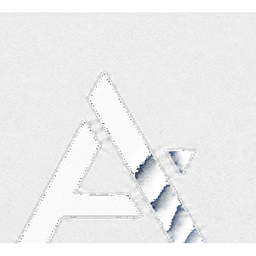
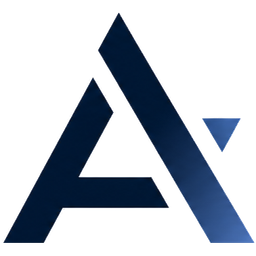
Deploy latest changes

diff --git a/src/components/MidPageCta.jsx b/src/components/MidPageCta.jsx
@@ -13,7 +13,12 @@ export default function MidPageCta() {
         <div className="lg:col-span-3">
           <div className="rounded-3xl bg-black/30 p-6 ring-1 ring-white/10 backdrop-blur shadow-soft">
             <div className="flex items-center gap-3">
-              <img src={axiomStrategyLogo} alt="Axiom Strategy" className="h-9 w-auto opacity-95 sm:h-10" />
+              <img
+                src={axiomStrategyLogo}
+                alt="Axiom Strategy"
+                className="h-9 w-auto opacity-100 sm:h-10"
+                style={{ filter: 'brightness(1.12) contrast(1.06) saturate(1.02)' }}
+              />
               <div>
                 <div className="text-sm font-semibold tracking-tight text-white/90">Axiom Strategy</div>
                 <div className="text-xs text-white/55">Next move</div>

diff --git a/src/components/Footer.jsx b/src/components/Footer.jsx
@@ -7,7 +7,12 @@ export default function Footer() {
       <div className="mx-auto max-w-6xl px-5 py-12 sm:px-8">
         <div className="flex flex-col gap-6 sm:flex-row sm:items-center sm:justify-between">
           <div className="flex items-center gap-3">
-            <img src={axiomStrategyLogo} alt="Axiom Strategy" className="h-8 w-auto opacity-95 sm:h-9" />
+            <img
+              src={axiomStrategyLogo}
+              alt="Axiom Strategy"
+              className="h-8 w-auto opacity-100 sm:h-9"
+              style={{ filter: 'brightness(1.12) contrast(1.06) saturate(1.02)' }}
+            />
             <div className="text-sm font-semibold tracking-tight text-white/90">
               Axiom Strategy
             </div>

diff --git a/src/components/Offers.jsx b/src/components/Offers.jsx
@@ -125,7 +125,8 @@ export default function Offers() {
               <img
                 src={axiomStrategyLogo}
                 alt="Axiom Strategy"
-                className="h-10 w-auto opacity-95 sm:h-12"
+                className="h-10 w-auto opacity-100 sm:h-12"
+                style={{ filter: 'brightness(1.12) contrast(1.06) saturate(1.02)' }}
               />
               <div>
                 <div className="text-lg font-semibold tracking-tight text-white">

diff --git a/src/components/Navbar.jsx b/src/components/Navbar.jsx
@@ -53,7 +53,8 @@ export default function Navbar() {
             <img
               src={axiomStrategyLogo}
               alt="Axiom Strategy"
-              className="relative h-8 w-auto opacity-95 sm:h-9"
+              className="relative h-8 w-auto opacity-100 sm:h-9"
+              style={{ filter: 'brightness(1.12) contrast(1.06) saturate(1.02)' }}
             />
           </div>
           <div className="hidden leading-tight sm:block">
